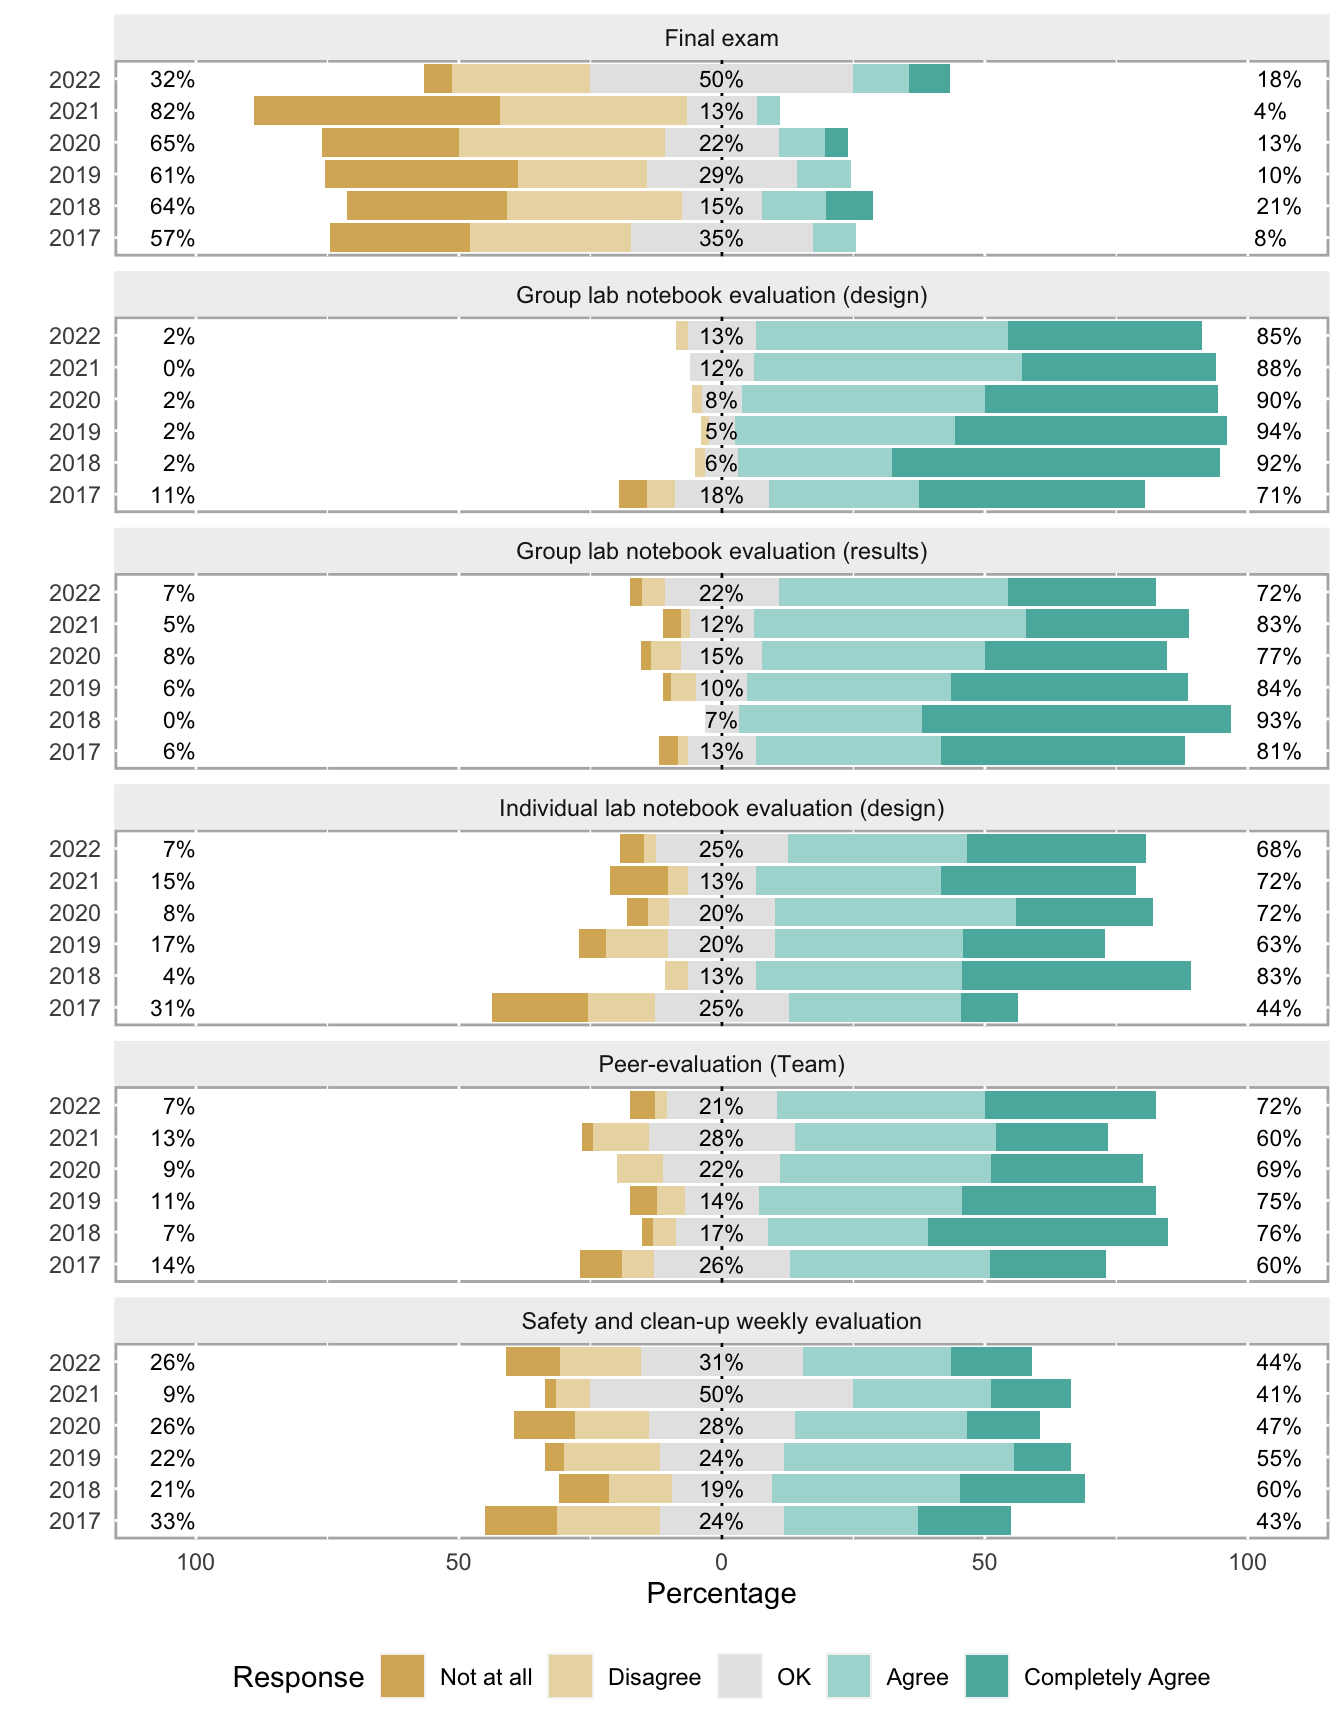
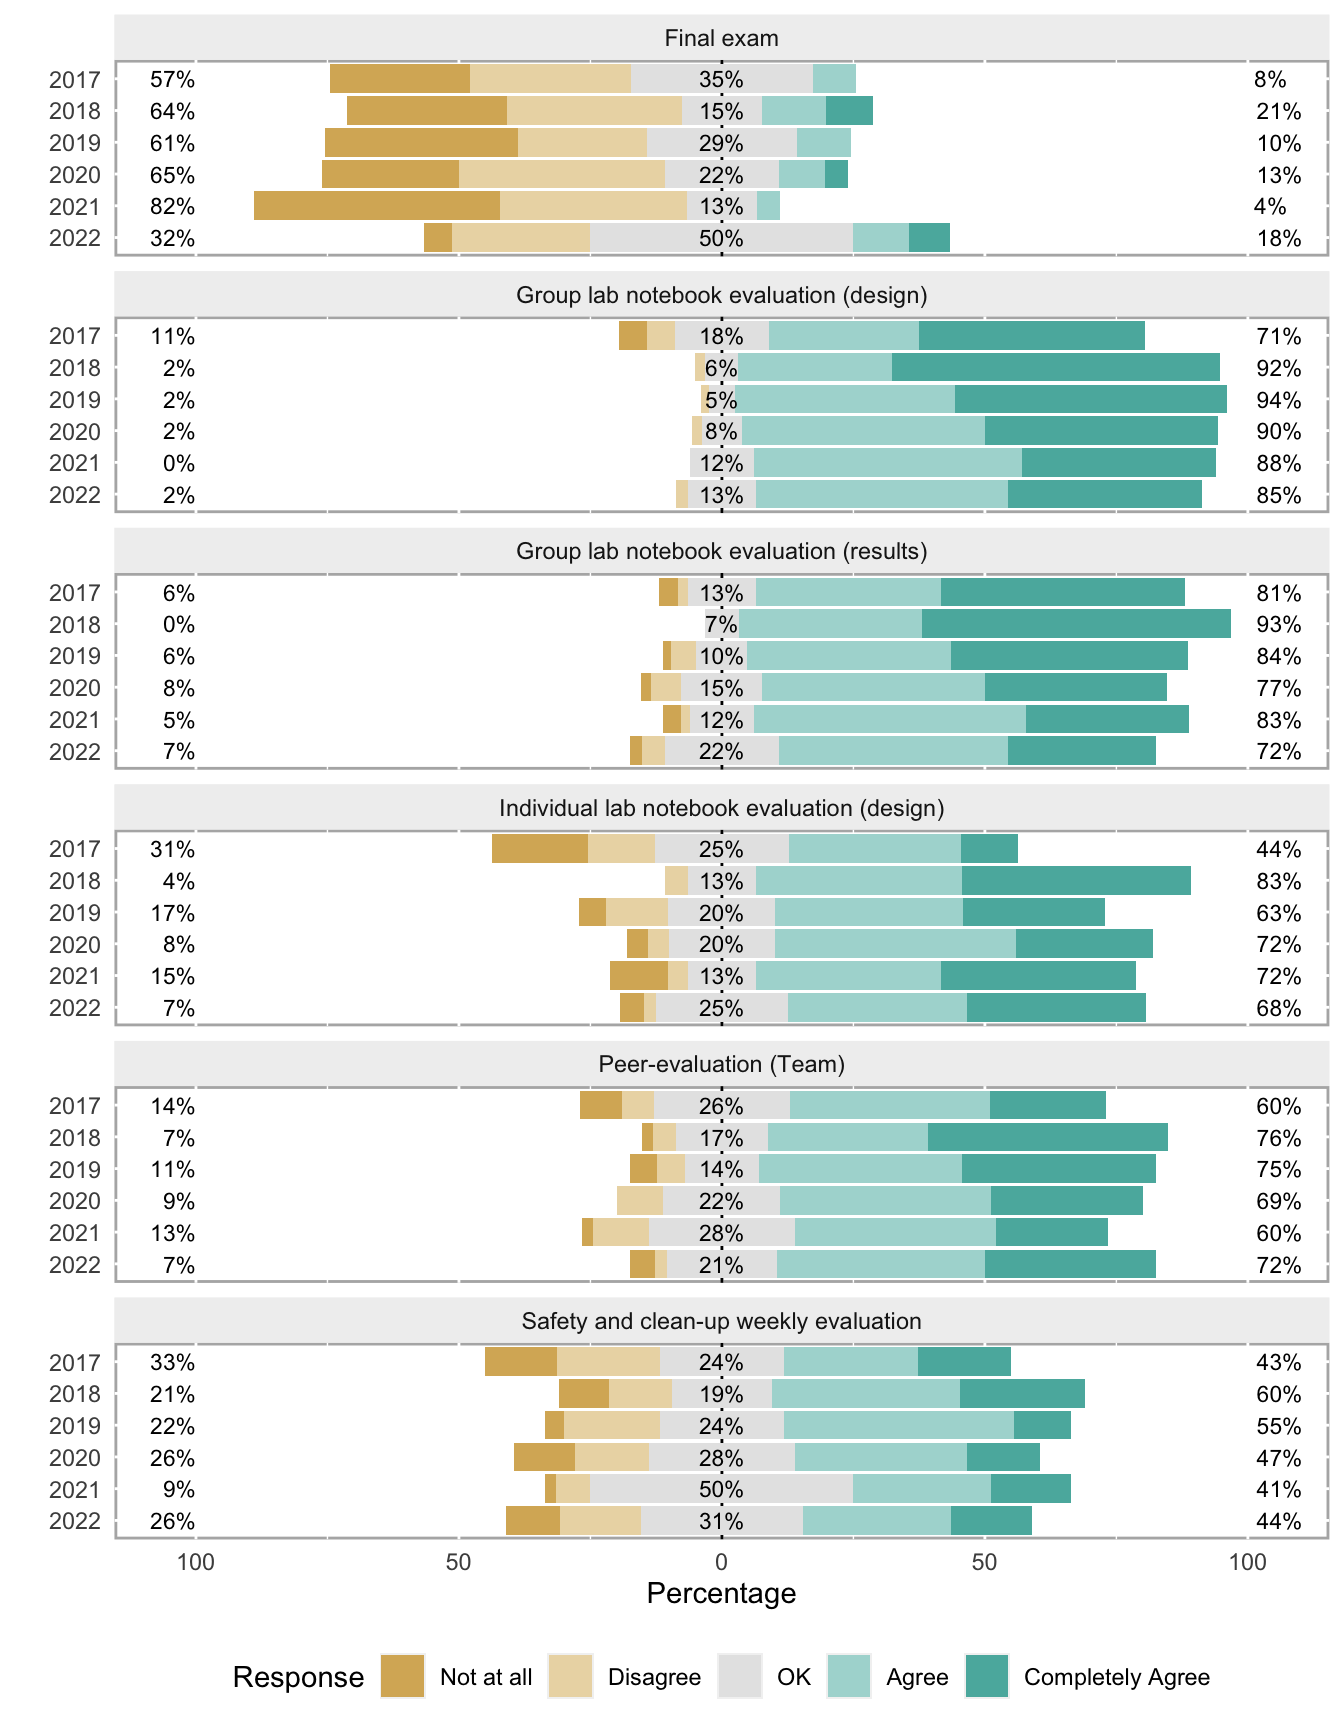
reorder years in likert plots

diff --git a/index.html b/index.html
@@ -112,7 +112,7 @@ code span.wa { color: #60a0b0; font-weight: bold; font-style: italic; } /* Warni
   <nav id="TOC" role="doc-toc" class="toc-active">
     <h2 id="toc-title">Table of contents</h2>
    
-  <ul>
+  <ul class="collapse">
   <li><a href="#contents-and-disclaimer" id="toc-contents-and-disclaimer" class="nav-link active" data-scroll-target="#contents-and-disclaimer"><span class="toc-section-number">1</span>  Contents and Disclaimer</a></li>
   <li><a href="#moodle-survey" id="toc-moodle-survey" class="nav-link" data-scroll-target="#moodle-survey"><span class="toc-section-number">2</span>  Moodle survey</a></li>
   <li><a href="#load-data-and-pairwise-t.test" id="toc-load-data-and-pairwise-t.test" class="nav-link" data-scroll-target="#load-data-and-pairwise-t.test"><span class="toc-section-number">3</span>  Load data and pairwise t.test</a></li>
@@ -127,10 +127,7 @@ code span.wa { color: #60a0b0; font-weight: bold; font-style: italic; } /* Warni
   <li><a href="#activities-interest" id="toc-activities-interest" class="nav-link" data-scroll-target="#activities-interest"><span class="toc-section-number">5.6</span>  Activities Interest</a></li>
   <li><a href="#assessment" id="toc-assessment" class="nav-link" data-scroll-target="#assessment"><span class="toc-section-number">5.7</span>  Assessment</a></li>
   <li><a href="#learning-objectives" id="toc-learning-objectives" class="nav-link" data-scroll-target="#learning-objectives"><span class="toc-section-number">5.8</span>  Learning Objectives</a></li>
-  <li><a href="#eln" id="toc-eln" class="nav-link" data-scroll-target="#eln"><span class="toc-section-number">5.9</span>  ELN</a>
-  <ul class="collapse">
-  <li><a href="#session-info" id="toc-session-info" class="nav-link" data-scroll-target="#session-info"><span class="toc-section-number">5.9.1</span>  Session Info</a></li>
-  </ul></li>
+  <li><a href="#eln" id="toc-eln" class="nav-link" data-scroll-target="#eln"><span class="toc-section-number">5.9</span>  ELN</a></li>
   </ul></li>
   </ul>
 </nav>
@@ -1396,13 +1393,14 @@ code span.wa { color: #60a0b0; font-weight: bold; font-style: italic; } /* Warni
 <span id="cb14-11"><a href="#cb14-11" aria-hidden="true" tabindex="-1"></a><span class="cf">for</span> (i <span class="cf">in</span> <span class="dv">2</span><span class="sc">:</span><span class="dv">72</span>){</span>
 <span id="cb14-12"><a href="#cb14-12" aria-hidden="true" tabindex="-1"></a>  subdata[,i] <span class="ot">&lt;-</span> <span class="fu">factor</span>(subdata[,i])</span>
 <span id="cb14-13"><a href="#cb14-13" aria-hidden="true" tabindex="-1"></a>}</span>
-<span id="cb14-14"><a href="#cb14-14" aria-hidden="true" tabindex="-1"></a><span class="co">#questions with 3 options</span></span>
-<span id="cb14-15"><a href="#cb14-15" aria-hidden="true" tabindex="-1"></a><span class="co">#General Methodology</span></span>
-<span id="cb14-16"><a href="#cb14-16" aria-hidden="true" tabindex="-1"></a>subdata[,<span class="fu">c</span>(<span class="dv">8</span><span class="sc">:</span><span class="dv">12</span>)] <span class="ot">&lt;-</span> <span class="fu">lapply</span>(subdata[,<span class="fu">c</span>(<span class="dv">8</span><span class="sc">:</span><span class="dv">12</span>)], <span class="cf">function</span>(x) <span class="fu">factor</span>(x, </span>
-<span id="cb14-17"><a href="#cb14-17" aria-hidden="true" tabindex="-1"></a>      <span class="at">labels =</span> <span class="fu">c</span>(<span class="st">"Traditional"</span>,<span class="st">"Same"</span>,<span class="st">"Open Question"</span>))</span>
-<span id="cb14-18"><a href="#cb14-18" aria-hidden="true" tabindex="-1"></a>  )</span>
-<span id="cb14-19"><a href="#cb14-19" aria-hidden="true" tabindex="-1"></a>xlikgroup3a <span class="ot">=</span> <span class="fu">likert</span>(subdata[,<span class="fu">c</span>(<span class="dv">8</span><span class="sc">:</span><span class="dv">12</span>)], <span class="at">grouping =</span> subdata<span class="sc">$</span>Curso)</span>
-<span id="cb14-20"><a href="#cb14-20" aria-hidden="true" tabindex="-1"></a><span class="fu">plot</span>(xlikgroup3a, <span class="at">type =</span> <span class="st">"bar"</span>, <span class="at">centered =</span> T) </span></code><button title="Copy to Clipboard" class="code-copy-button"><i class="bi"></i></button></pre></div>
+<span id="cb14-14"><a href="#cb14-14" aria-hidden="true" tabindex="-1"></a>subdata<span class="sc">$</span>Curso <span class="ot">&lt;-</span> <span class="fu">factor</span>(subdata<span class="sc">$</span>Curso,<span class="at">levels=</span><span class="fu">c</span>(<span class="dv">2022</span>,<span class="dv">2021</span>,<span class="dv">2020</span>,<span class="dv">2019</span>,<span class="dv">2018</span>,<span class="dv">2017</span>))</span>
+<span id="cb14-15"><a href="#cb14-15" aria-hidden="true" tabindex="-1"></a><span class="co">#questions with 3 options</span></span>
+<span id="cb14-16"><a href="#cb14-16" aria-hidden="true" tabindex="-1"></a><span class="co">#General Methodology</span></span>
+<span id="cb14-17"><a href="#cb14-17" aria-hidden="true" tabindex="-1"></a>subdata[,<span class="fu">c</span>(<span class="dv">8</span><span class="sc">:</span><span class="dv">12</span>)] <span class="ot">&lt;-</span> <span class="fu">lapply</span>(subdata[,<span class="fu">c</span>(<span class="dv">8</span><span class="sc">:</span><span class="dv">12</span>)], <span class="cf">function</span>(x) <span class="fu">factor</span>(x, </span>
+<span id="cb14-18"><a href="#cb14-18" aria-hidden="true" tabindex="-1"></a>      <span class="at">labels =</span> <span class="fu">c</span>(<span class="st">"Traditional"</span>,<span class="st">"Same"</span>,<span class="st">"Open Question"</span>))</span>
+<span id="cb14-19"><a href="#cb14-19" aria-hidden="true" tabindex="-1"></a>  )</span>
+<span id="cb14-20"><a href="#cb14-20" aria-hidden="true" tabindex="-1"></a>xlikgroup3a <span class="ot">=</span> <span class="fu">likert</span>(subdata[,<span class="fu">c</span>(<span class="dv">8</span><span class="sc">:</span><span class="dv">12</span>)], <span class="at">grouping =</span> subdata<span class="sc">$</span>Curso)</span>
+<span id="cb14-21"><a href="#cb14-21" aria-hidden="true" tabindex="-1"></a><span class="fu">plot</span>(xlikgroup3a, <span class="at">type =</span> <span class="st">"bar"</span>, <span class="at">centered =</span> T) </span></code><button title="Copy to Clipboard" class="code-copy-button"><i class="bi"></i></button></pre></div>
 </details>
 <div class="cell-output-display">
 <p><img src="surveys_plots_all_2_files/figure-html/Fig2-1.png" class="img-fluid" width="672"></p>

diff --git a/surveys_plots_all_2.html b/surveys_plots_all_2.html
@@ -112,7 +112,7 @@ code span.wa { color: #60a0b0; font-weight: bold; font-style: italic; } /* Warni
   <nav id="TOC" role="doc-toc" class="toc-active">
     <h2 id="toc-title">Table of contents</h2>
    
-  <ul>
+  <ul class="collapse">
   <li><a href="#contents-and-disclaimer" id="toc-contents-and-disclaimer" class="nav-link active" data-scroll-target="#contents-and-disclaimer"><span class="toc-section-number">1</span>  Contents and Disclaimer</a></li>
   <li><a href="#moodle-survey" id="toc-moodle-survey" class="nav-link" data-scroll-target="#moodle-survey"><span class="toc-section-number">2</span>  Moodle survey</a></li>
   <li><a href="#load-data-and-pairwise-t.test" id="toc-load-data-and-pairwise-t.test" class="nav-link" data-scroll-target="#load-data-and-pairwise-t.test"><span class="toc-section-number">3</span>  Load data and pairwise t.test</a></li>
@@ -127,10 +127,7 @@ code span.wa { color: #60a0b0; font-weight: bold; font-style: italic; } /* Warni
   <li><a href="#activities-interest" id="toc-activities-interest" class="nav-link" data-scroll-target="#activities-interest"><span class="toc-section-number">5.6</span>  Activities Interest</a></li>
   <li><a href="#assessment" id="toc-assessment" class="nav-link" data-scroll-target="#assessment"><span class="toc-section-number">5.7</span>  Assessment</a></li>
   <li><a href="#learning-objectives" id="toc-learning-objectives" class="nav-link" data-scroll-target="#learning-objectives"><span class="toc-section-number">5.8</span>  Learning Objectives</a></li>
-  <li><a href="#eln" id="toc-eln" class="nav-link" data-scroll-target="#eln"><span class="toc-section-number">5.9</span>  ELN</a>
-  <ul class="collapse">
-  <li><a href="#session-info" id="toc-session-info" class="nav-link" data-scroll-target="#session-info"><span class="toc-section-number">5.9.1</span>  Session Info</a></li>
-  </ul></li>
+  <li><a href="#eln" id="toc-eln" class="nav-link" data-scroll-target="#eln"><span class="toc-section-number">5.9</span>  ELN</a></li>
   </ul></li>
   </ul>
 </nav>
@@ -1396,13 +1393,14 @@ code span.wa { color: #60a0b0; font-weight: bold; font-style: italic; } /* Warni
 <span id="cb14-11"><a href="#cb14-11" aria-hidden="true" tabindex="-1"></a><span class="cf">for</span> (i <span class="cf">in</span> <span class="dv">2</span><span class="sc">:</span><span class="dv">72</span>){</span>
 <span id="cb14-12"><a href="#cb14-12" aria-hidden="true" tabindex="-1"></a>  subdata[,i] <span class="ot">&lt;-</span> <span class="fu">factor</span>(subdata[,i])</span>
 <span id="cb14-13"><a href="#cb14-13" aria-hidden="true" tabindex="-1"></a>}</span>
-<span id="cb14-14"><a href="#cb14-14" aria-hidden="true" tabindex="-1"></a><span class="co">#questions with 3 options</span></span>
-<span id="cb14-15"><a href="#cb14-15" aria-hidden="true" tabindex="-1"></a><span class="co">#General Methodology</span></span>
-<span id="cb14-16"><a href="#cb14-16" aria-hidden="true" tabindex="-1"></a>subdata[,<span class="fu">c</span>(<span class="dv">8</span><span class="sc">:</span><span class="dv">12</span>)] <span class="ot">&lt;-</span> <span class="fu">lapply</span>(subdata[,<span class="fu">c</span>(<span class="dv">8</span><span class="sc">:</span><span class="dv">12</span>)], <span class="cf">function</span>(x) <span class="fu">factor</span>(x, </span>
-<span id="cb14-17"><a href="#cb14-17" aria-hidden="true" tabindex="-1"></a>      <span class="at">labels =</span> <span class="fu">c</span>(<span class="st">"Traditional"</span>,<span class="st">"Same"</span>,<span class="st">"Open Question"</span>))</span>
-<span id="cb14-18"><a href="#cb14-18" aria-hidden="true" tabindex="-1"></a>  )</span>
-<span id="cb14-19"><a href="#cb14-19" aria-hidden="true" tabindex="-1"></a>xlikgroup3a <span class="ot">=</span> <span class="fu">likert</span>(subdata[,<span class="fu">c</span>(<span class="dv">8</span><span class="sc">:</span><span class="dv">12</span>)], <span class="at">grouping =</span> subdata<span class="sc">$</span>Curso)</span>
-<span id="cb14-20"><a href="#cb14-20" aria-hidden="true" tabindex="-1"></a><span class="fu">plot</span>(xlikgroup3a, <span class="at">type =</span> <span class="st">"bar"</span>, <span class="at">centered =</span> T) </span></code><button title="Copy to Clipboard" class="code-copy-button"><i class="bi"></i></button></pre></div>
+<span id="cb14-14"><a href="#cb14-14" aria-hidden="true" tabindex="-1"></a>subdata<span class="sc">$</span>Curso <span class="ot">&lt;-</span> <span class="fu">factor</span>(subdata<span class="sc">$</span>Curso,<span class="at">levels=</span><span class="fu">c</span>(<span class="dv">2022</span>,<span class="dv">2021</span>,<span class="dv">2020</span>,<span class="dv">2019</span>,<span class="dv">2018</span>,<span class="dv">2017</span>))</span>
+<span id="cb14-15"><a href="#cb14-15" aria-hidden="true" tabindex="-1"></a><span class="co">#questions with 3 options</span></span>
+<span id="cb14-16"><a href="#cb14-16" aria-hidden="true" tabindex="-1"></a><span class="co">#General Methodology</span></span>
+<span id="cb14-17"><a href="#cb14-17" aria-hidden="true" tabindex="-1"></a>subdata[,<span class="fu">c</span>(<span class="dv">8</span><span class="sc">:</span><span class="dv">12</span>)] <span class="ot">&lt;-</span> <span class="fu">lapply</span>(subdata[,<span class="fu">c</span>(<span class="dv">8</span><span class="sc">:</span><span class="dv">12</span>)], <span class="cf">function</span>(x) <span class="fu">factor</span>(x, </span>
+<span id="cb14-18"><a href="#cb14-18" aria-hidden="true" tabindex="-1"></a>      <span class="at">labels =</span> <span class="fu">c</span>(<span class="st">"Traditional"</span>,<span class="st">"Same"</span>,<span class="st">"Open Question"</span>))</span>
+<span id="cb14-19"><a href="#cb14-19" aria-hidden="true" tabindex="-1"></a>  )</span>
+<span id="cb14-20"><a href="#cb14-20" aria-hidden="true" tabindex="-1"></a>xlikgroup3a <span class="ot">=</span> <span class="fu">likert</span>(subdata[,<span class="fu">c</span>(<span class="dv">8</span><span class="sc">:</span><span class="dv">12</span>)], <span class="at">grouping =</span> subdata<span class="sc">$</span>Curso)</span>
+<span id="cb14-21"><a href="#cb14-21" aria-hidden="true" tabindex="-1"></a><span class="fu">plot</span>(xlikgroup3a, <span class="at">type =</span> <span class="st">"bar"</span>, <span class="at">centered =</span> T) </span></code><button title="Copy to Clipboard" class="code-copy-button"><i class="bi"></i></button></pre></div>
 </details>
 <div class="cell-output-display">
 <p><img src="surveys_plots_all_2_files/figure-html/Fig2-1.png" class="img-fluid" width="672"></p>
